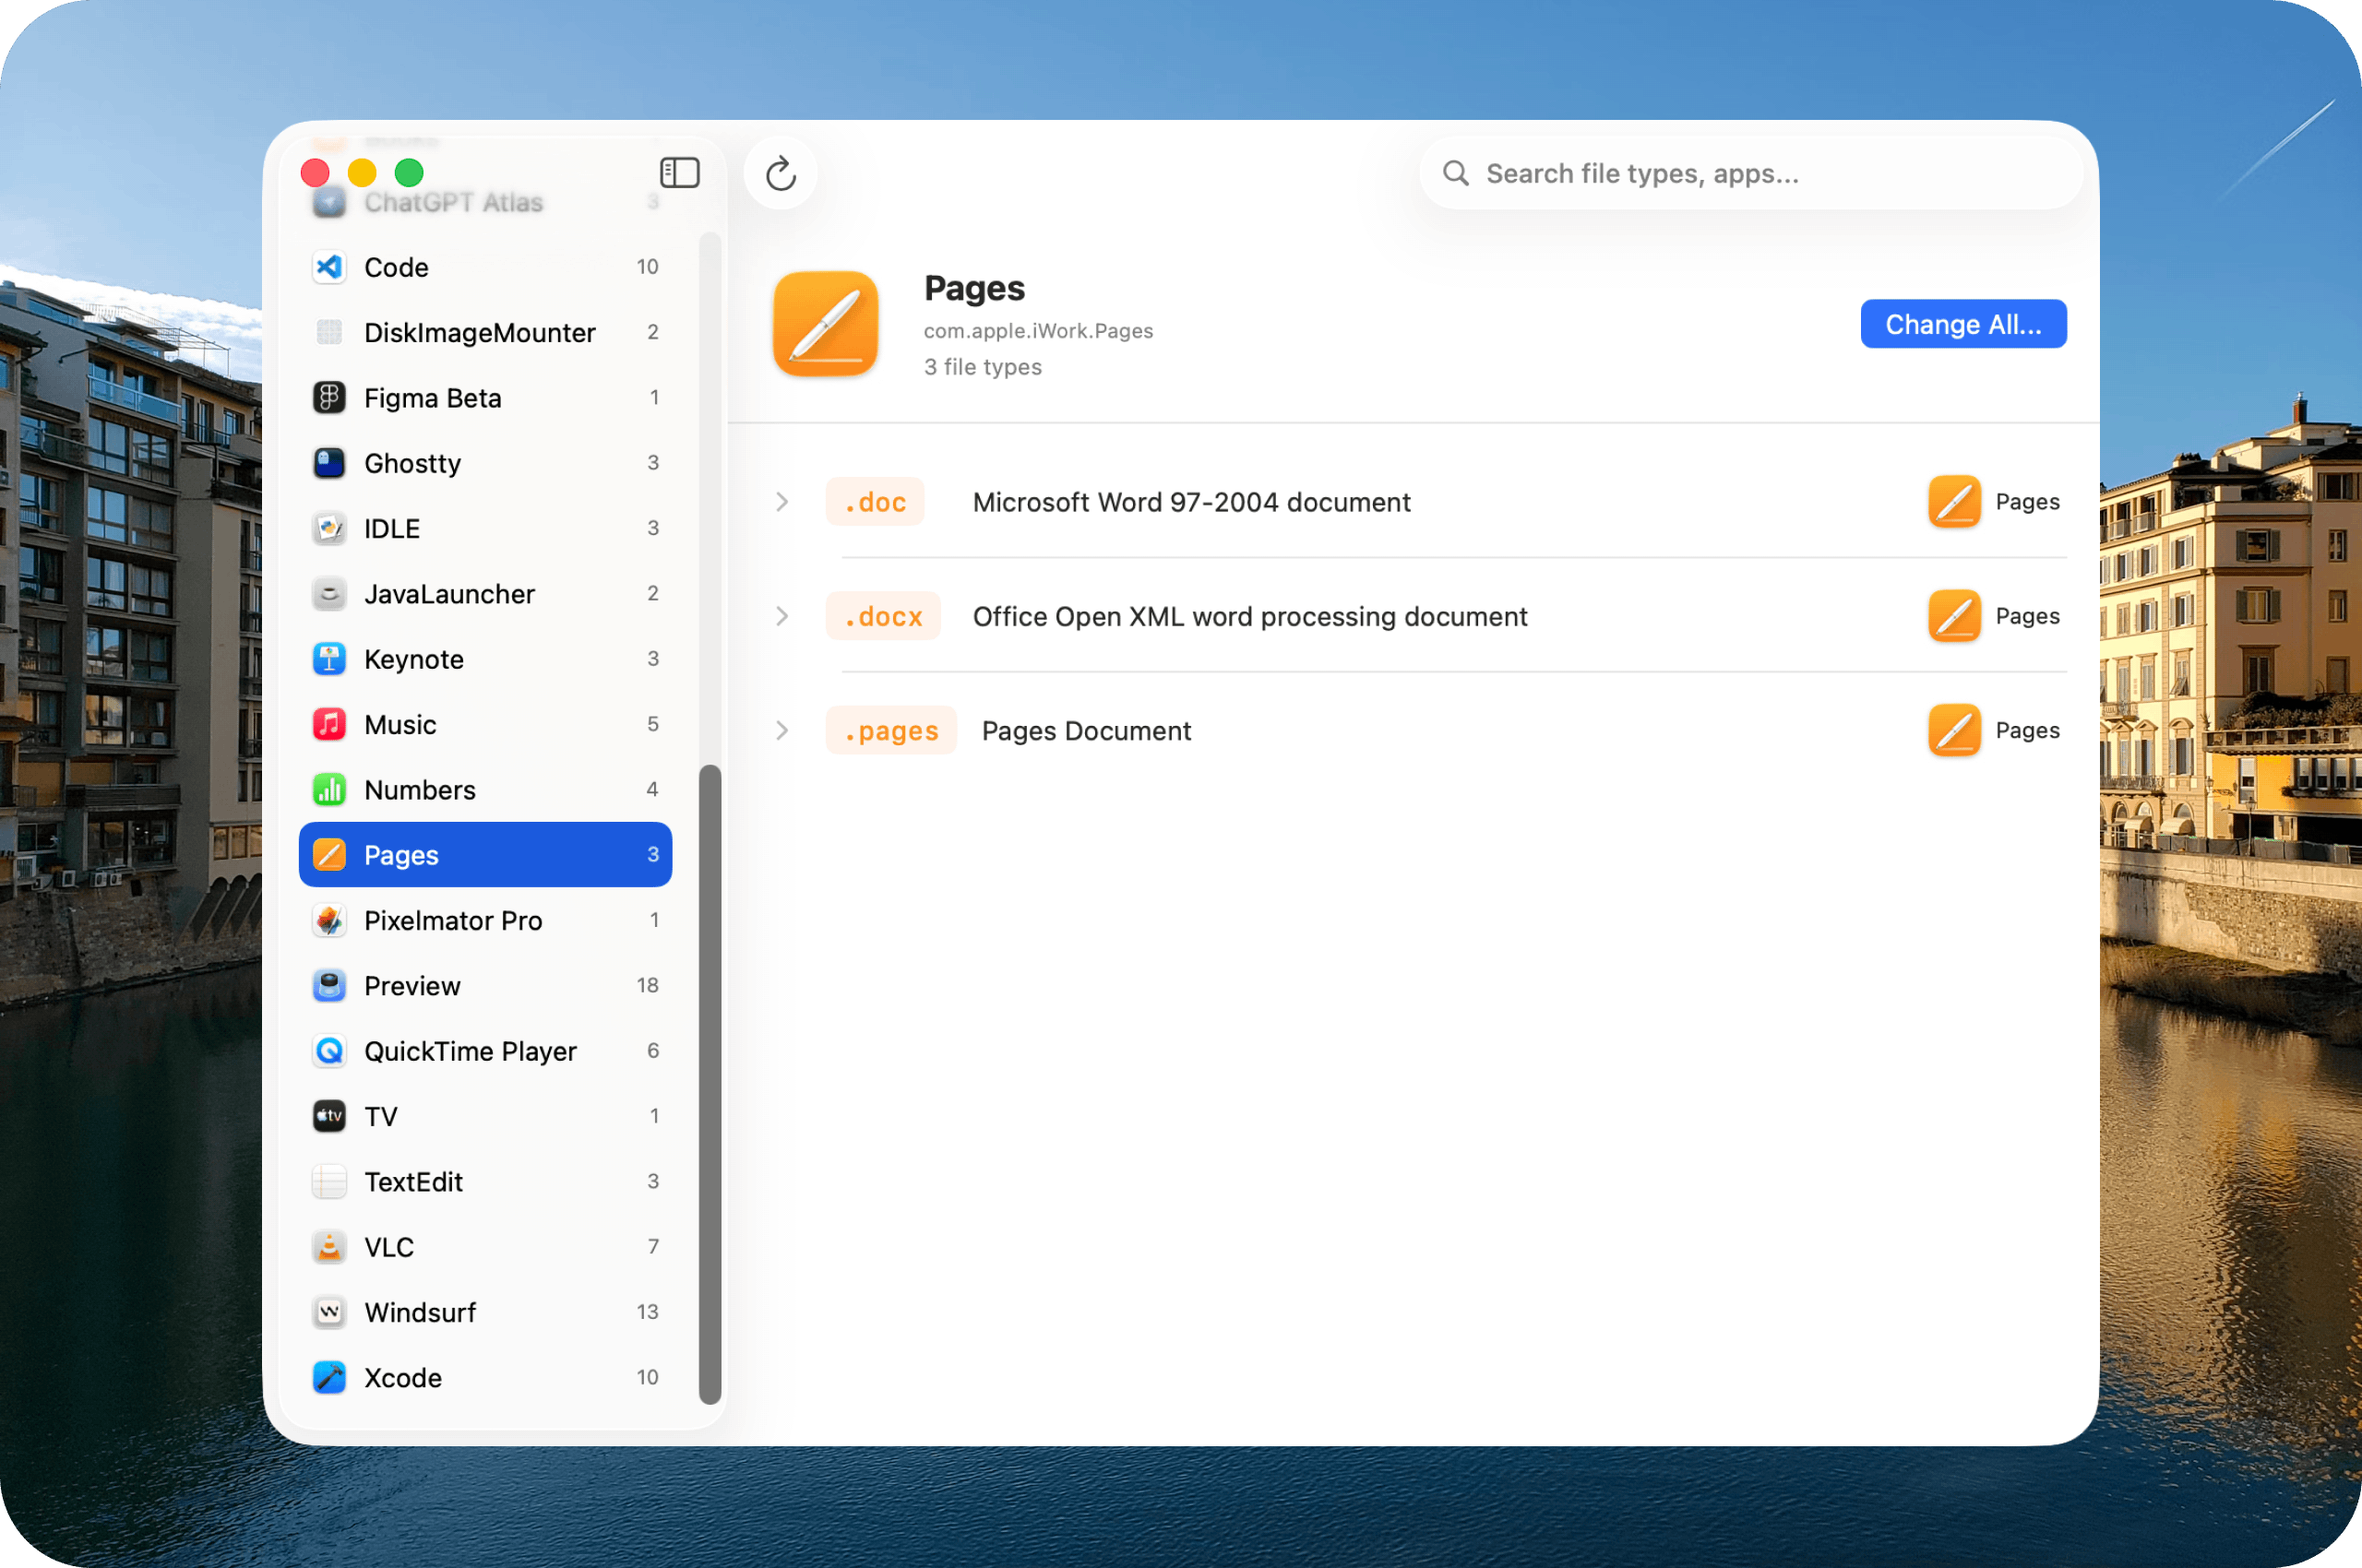
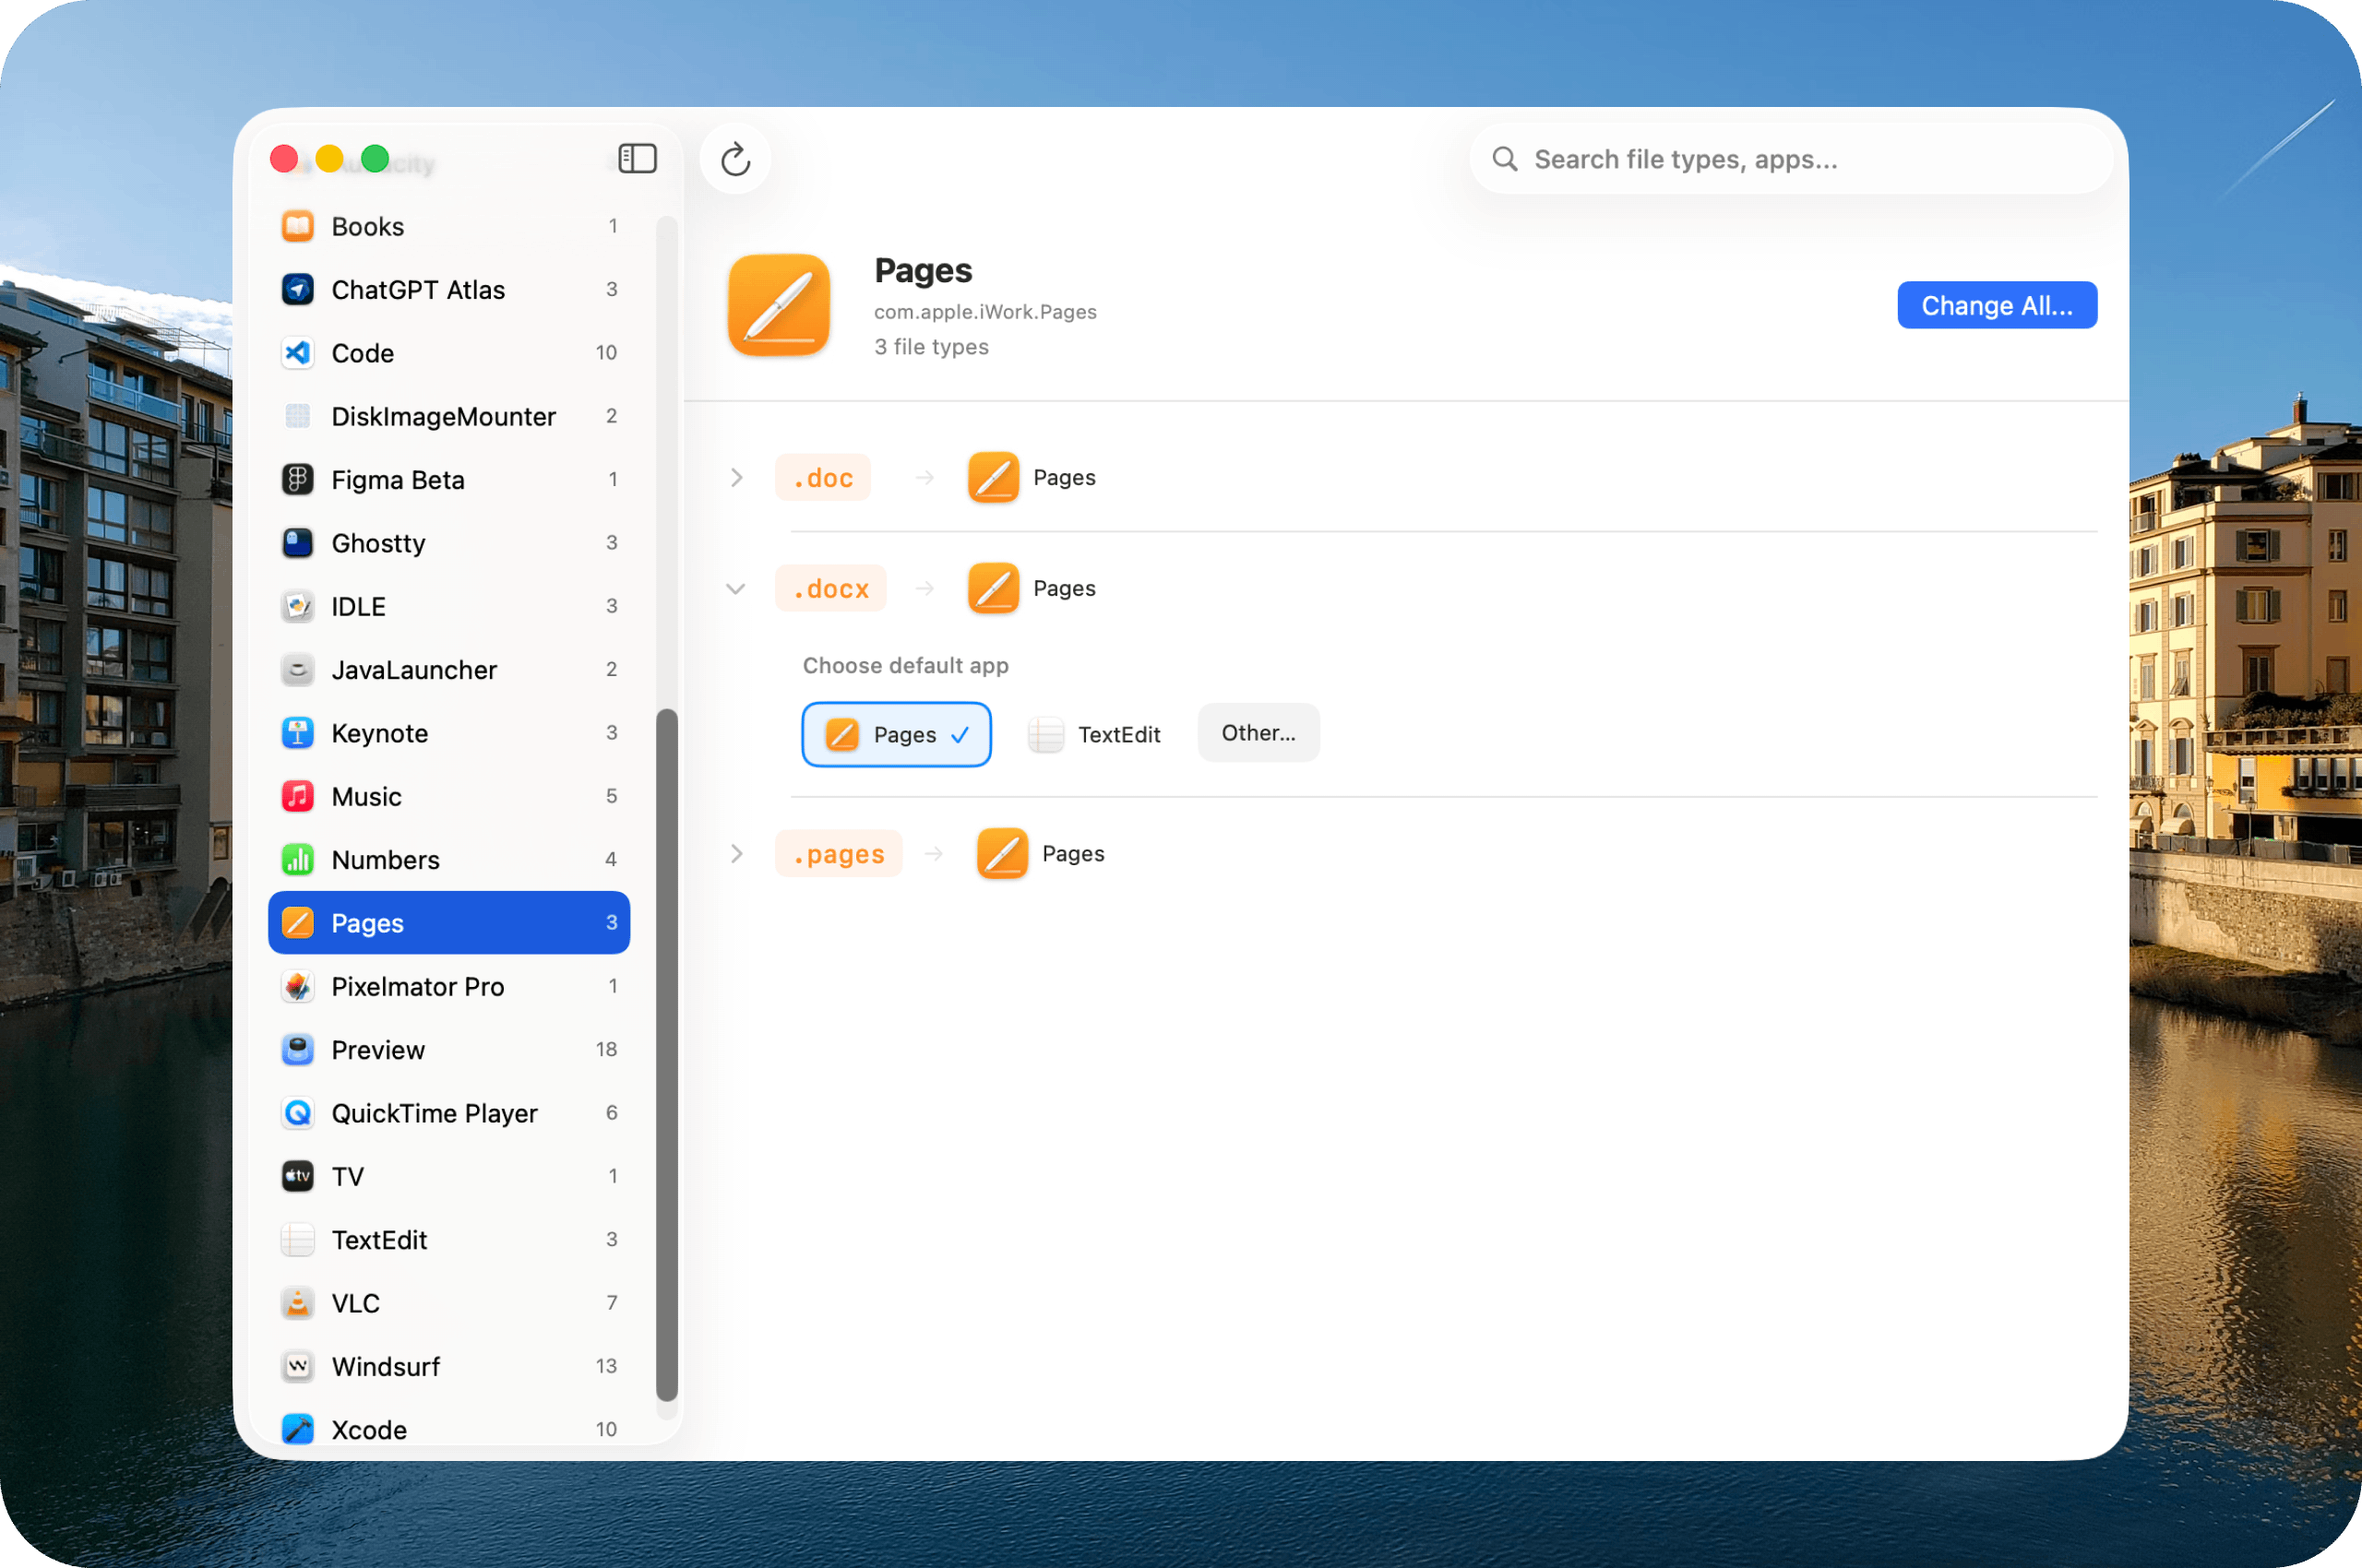
Improve UI layout and fix app picker bug
- Update bundle identifier to com.bernaferrari.defaultopener
- Bump minimum target to macOS 14
- Redesign file type rows: extension → app badge (left-aligned)
- Remove confusing description text from rows
- Fix bug where registered apps were missing from picker dialog
- Fix capitalization in section headers
- Enhance README with CLI section and richer descriptions
- Update screenshots

diff --git a/DefaultOpener/DefaultOpener/ContentView.swift b/DefaultOpener/DefaultOpener/ContentView.swift
@@ -43,14 +43,12 @@ struct ContentView: View {
                 .disabled(viewModel.isLoading)
             }
         }
-        .onChange(of: viewModel.isLoading) { isLoading in
+        .onChange(of: viewModel.isLoading) { _, isLoading in
             if isLoading {
-                // Start spinning
                 withAnimation(.linear(duration: 1).repeatForever(autoreverses: false)) {
                     refreshRotation = 360
                 }
             } else {
-                // Stop and reset
                 withAnimation(.default) {
                     refreshRotation = 0
                 }
@@ -253,21 +251,9 @@ struct FileTypeRow: View {
     @State private var isExpanded = false
     @State private var showingAllApps = false
 
-    var hasValidDescription: Bool {
-        // Hide description for dynamic UTIs and when there's no meaningful description
-        guard !fileType.uti.hasPrefix("dyn.") else { return false }
-        guard let description = fileType.utiDescription else { return false }
-        let lower = description.lowercased()
-        // Hide if it's empty, says "unregistered", or is just the UTI repeated
-        if description.isEmpty || lower == "unregistered" || description == fileType.uti {
-            return false
-        }
-        return true
-    }
-
     var body: some View {
         VStack(alignment: .leading, spacing: 0) {
-            HStack(spacing: 12) {
+            HStack(spacing: 10) {
                 // Leading indicator - fixed width to prevent jitter
                 ZStack {
                     if isSelectionMode {
@@ -291,13 +277,10 @@ struct FileTypeRow: View {
                 // Extension badge
                 ExtensionBadge(ext: fileType.fileExtension)
 
-                // Only show description for registered UTIs with valid descriptions
-                if hasValidDescription {
-                    Text(fileType.utiDescription!)
-                        .font(.body)
-                }
-
-                Spacer()
+                // Arrow connector
+                Image(systemName: "arrow.right")
+                    .font(.system(size: 10, weight: .medium))
+                    .foregroundStyle(.quaternary)
 
                 // Current handler - clickable to show picker
                 Menu {
@@ -340,6 +323,8 @@ struct FileTypeRow: View {
                 }
                 .menuStyle(.borderlessButton)
                 .menuIndicator(.hidden)
+
+                Spacer()
             }
             .padding(.vertical, 8)
             .contentShape(Rectangle())
@@ -544,8 +529,7 @@ struct AppPickerSheet: View {
         for ext in extensions {
             if let fileType = viewModel.fileTypes.first(where: { $0.fileExtension == ext }) {
                 for handler in fileType.availableHandlers {
-                    if !seen.contains(handler.bundleIdentifier) &&
-                       !Self.popularEditorBundleIDs.contains(handler.bundleIdentifier) {
+                    if !seen.contains(handler.bundleIdentifier) {
                         seen.insert(handler.bundleIdentifier)
                         apps.append(handler)
                     }
@@ -557,8 +541,11 @@ struct AppPickerSheet: View {
     }
 
     private var popularEditors: [AppInfo] {
-        Self.popularEditorBundleIDs.compactMap { bundleID in
-            allApps.first { $0.bundleIdentifier == bundleID }
+        let registeredIDs = Set(registeredHandlers.map(\.bundleIdentifier))
+        return Self.popularEditorBundleIDs.compactMap { bundleID in
+            // Skip if already shown in registered handlers
+            guard !registeredIDs.contains(bundleID) else { return nil }
+            return allApps.first { $0.bundleIdentifier == bundleID }
         }
     }
 
@@ -627,7 +614,7 @@ struct AppPickerSheet: View {
                         // Registered Handlers Section - should come first
                         let filteredRegistered = filteredApps(registeredHandlers)
                         if !filteredRegistered.isEmpty {
-                            AppSection(title: "Registered for \(extensions.count == 1 ? "This Type" : "These Types")") {
+                            AppSection(title: "Registered for \(extensions.count == 1 ? "this type" : "these types")") {
                                 ForEach(filteredRegistered, id: \.bundleIdentifier) { app in
                                     AppRow(
                                         app: app,
@@ -966,7 +953,7 @@ struct URLSchemePickerSheet: View {
                     LazyVStack(alignment: .leading, spacing: 0) {
                         // Registered Handlers Section
                         if !filteredRegistered.isEmpty {
-                            AppSection(title: "Registered for This Scheme") {
+                            AppSection(title: "Registered for this scheme") {
                                 ForEach(filteredRegistered, id: \.bundleIdentifier) { app in
                                     AppRow(
                                         app: app,
@@ -1088,7 +1075,7 @@ struct URLSchemeRow: View {
 
     var body: some View {
         VStack(alignment: .leading, spacing: 0) {
-            HStack(spacing: 12) {
+            HStack(spacing: 10) {
                 // Leading indicator - fixed width to match FileTypeRow
                 ZStack {
                     Image(systemName: "chevron.right")
@@ -1107,12 +1094,10 @@ struct URLSchemeRow: View {
                     .background(Color.blue.opacity(0.1))
                     .clipShape(RoundedRectangle(cornerRadius: 6))
 
-                if let description = scheme.description {
-                    Text(description)
-                        .font(.body)
-                }
-
-                Spacer()
+                // Arrow connector
+                Image(systemName: "arrow.right")
+                    .font(.system(size: 10, weight: .medium))
+                    .foregroundStyle(.quaternary)
 
                 // Current handler - clickable menu
                 Menu {
@@ -1155,6 +1140,8 @@ struct URLSchemeRow: View {
                 }
                 .menuStyle(.borderlessButton)
                 .menuIndicator(.hidden)
+
+                Spacer()
             }
             .padding(.vertical, 8)
             .contentShape(Rectangle())

diff --git a/README.md b/README.md
@@ -5,16 +5,16 @@
 </p>
 
 <p align="center">
-  <img src="https://img.shields.io/badge/platform-macOS%2013%2B-blue" alt="macOS 13+">
+  <img src="https://img.shields.io/badge/platform-macOS%2014%2B-blue" alt="macOS 14+">
   <img src="https://img.shields.io/badge/Swift-6-orange" alt="Swift 6">
   <img src="https://img.shields.io/badge/license-Apache%202.0-blue" alt="Apache 2.0 License">
 </p>
 
-A macOS utility to view and manage default applications for file types and URL schemes.
+Ever installed an app and suddenly all your files open with it? Default Opener gives you back control over which apps handle your files and URLs.
 
-| Main Screen | Dark Mode |
-|:-:|:-:|
-| ![Main Screen](assets/main-screen.png?raw=true) | ![Dark Mode](assets/dark-mode.png?raw=true) |
+<p align="center">
+  <img src="assets/main-screen.png" alt="Main Screen" width="700">
+</p>
 
 | URL Schemes | Change All From App |
 |:-:|:-:|
@@ -22,12 +22,12 @@ A macOS utility to view and manage default applications for file types and URL s
 
 ## Features
 
-- View and change default apps for 100+ file extensions
-- Manage URL scheme handlers (http, mailto, ssh, etc.)
-- Bulk operations - change multiple file types at once
-- Backup and restore your preferences
-- Instant undo via toast notification
-- Detect when apps hijack your file associations
+- **100+ file extensions** — Browse and change defaults for documents, code, images, videos, and more
+- **URL schemes** — Control which app handles http, mailto, ssh, and other protocols
+- **Bulk operations** — Select multiple file types and change them all at once
+- **Backup & restore** — Save your preferences and restore them anytime
+- **Instant undo** — Changed something by mistake? One-click undo via toast notification
+- **Hijack detection** — Get notified when apps change your defaults without asking
 
 ## Installation
 
@@ -39,9 +39,19 @@ cd default-opener
 xcodebuild -project DefaultOpener/DefaultOpener.xcodeproj -scheme DefaultOpener -configuration Release
 ```
 
+## CLI
+
+Prefer the command line? There's a CLI too. See [CLI documentation](docs/CLI.md) for usage.
+
+```bash
+opener set .json com.microsoft.VSCode
+opener set https com.apple.Safari
+opener backup
+```
+
 ## Requirements
 
-- macOS 13.0+
+- macOS 14.0+
 
 ## License
 
